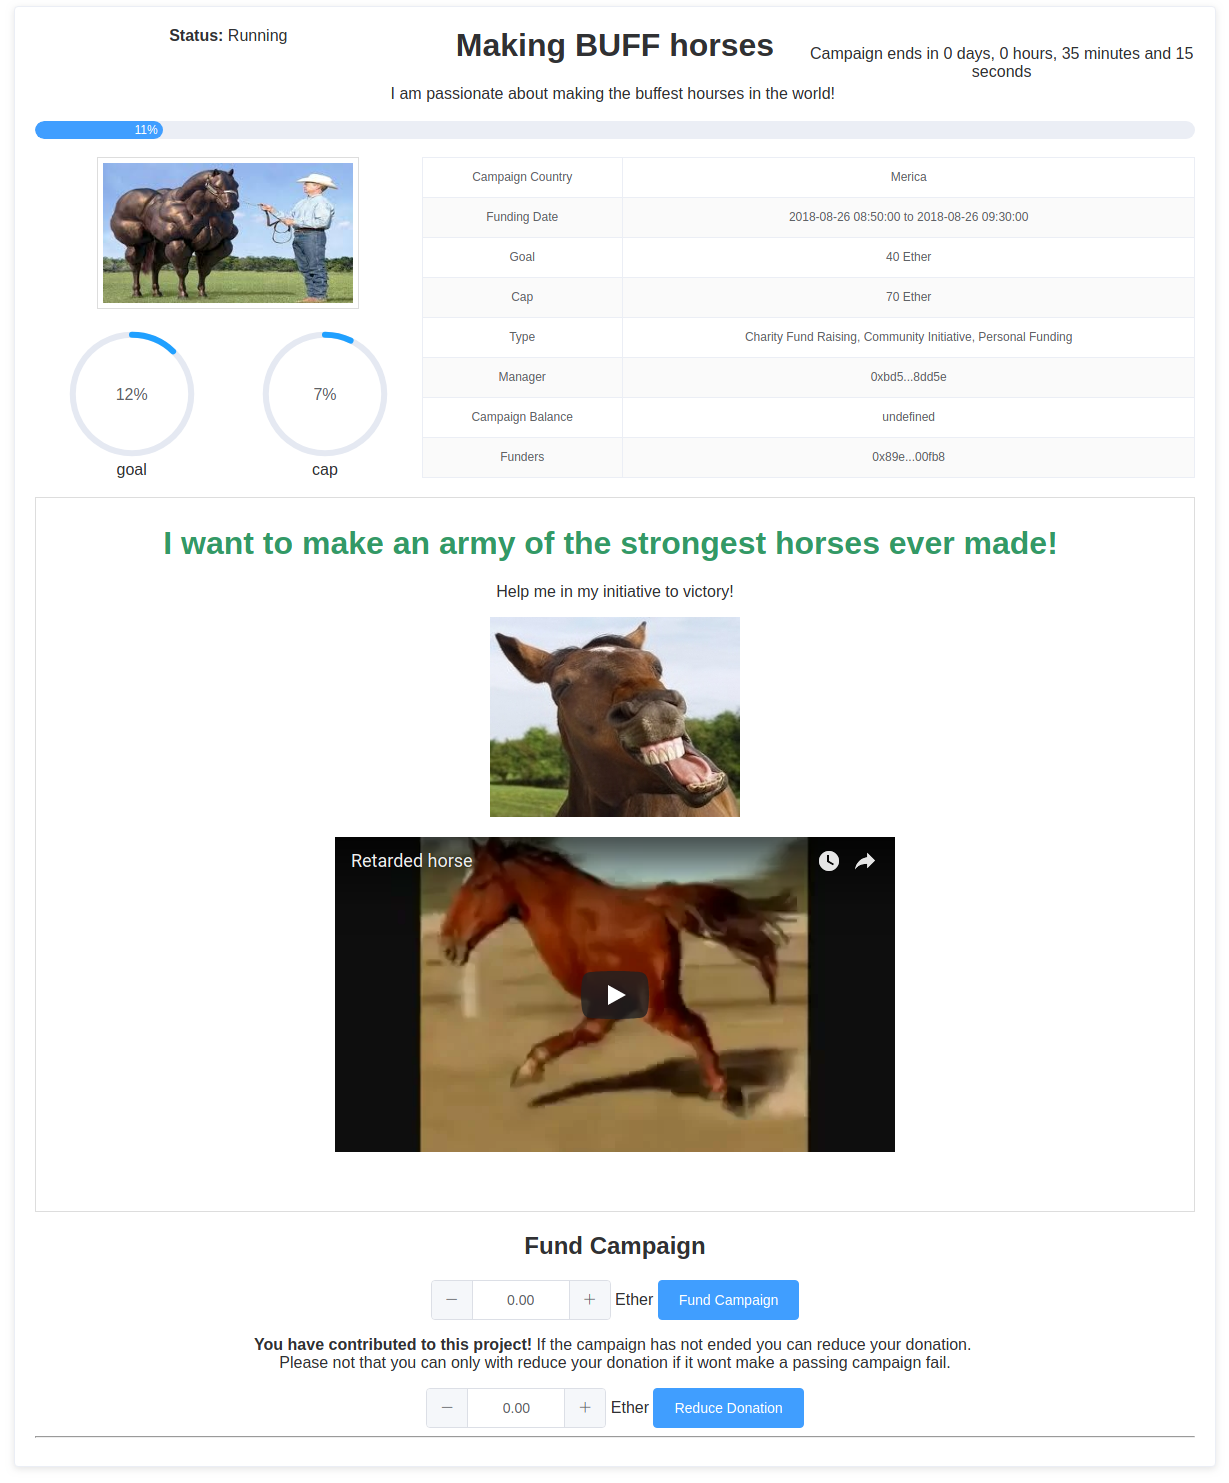
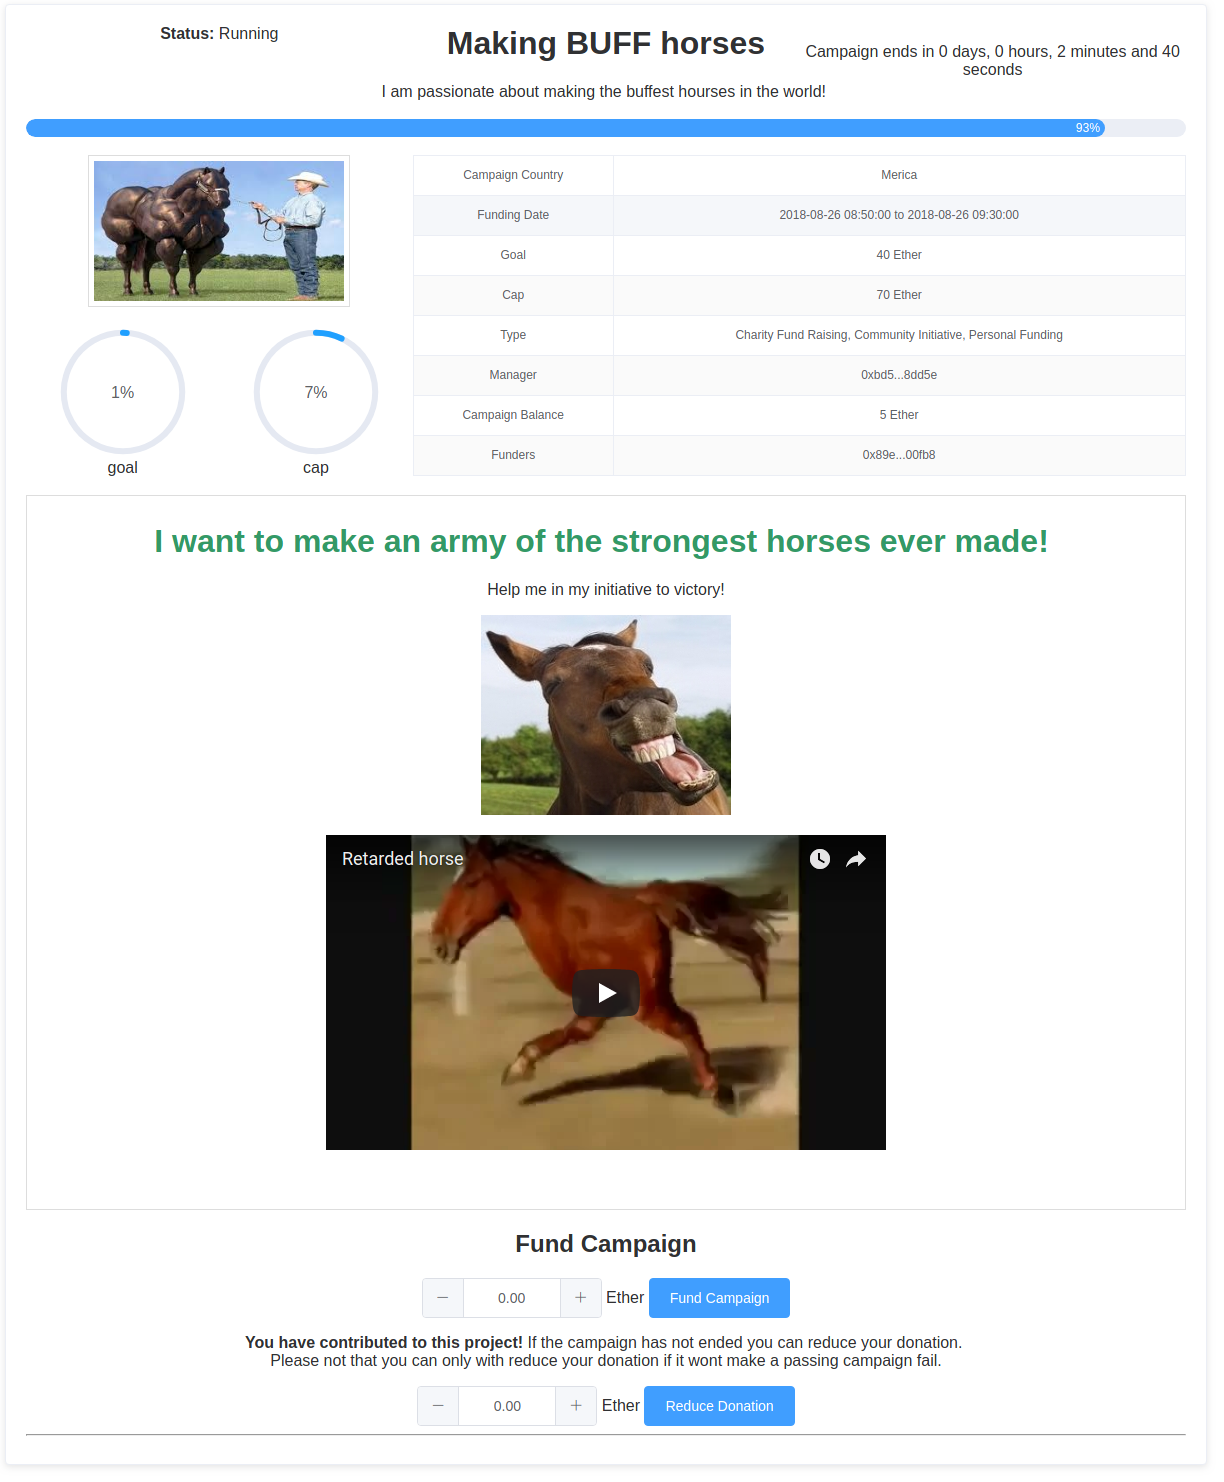
Updated readme

diff --git a/src/components/ViewCampaign.vue b/src/components/ViewCampaign.vue
@@ -165,9 +165,9 @@ export default {
       }
       type = type.substring(0, type.length - 2);
 
-      let balance = this.contractReturnedData[3];
+      let balance = this.contractReturnedData[3]["c"][0]/10000+" Ether";
       if (balance == undefined || balance == 0) {
-        balance = "0";
+        balance = "0 Ether";
       }
 
       let funders = this.contractReturnedData[7];
@@ -209,9 +209,9 @@ export default {
         { propery: "Funders", value: fundersString }
       ];
       this.goalPercentage = parseInt(
-        balance / this.ipfsReturnedData.goalCap[0] * 100 / 1000000000000000000);
+        this.contractReturnedData[3]["c"][0]/10000 / this.ipfsReturnedData.goalCap[0] * 100 / 1000000000000000000);
       this.capPercentage = parseInt(
-        balance / this.ipfsReturnedData.goalCap[1] * 100 / 1000000000000000000);
+        this.contractReturnedData[3]["c"][0]/10000 / this.ipfsReturnedData.goalCap[1] * 100 / 1000000000000000000);
     },
     convertSeconds(seconds) {
       var d, h, m, s;

diff --git a/README.md b/README.md
@@ -2,30 +2,53 @@
 **Decentralized, peer to peer funding platform for creatives, charities and open source projects.**
 
 ### Overview
-Ethstarter enables individuals to create new campaigns and publish them on an open platform. Key logic regarding campaign operation is stored within Ethereum Smart contracts and additional information (such as images, text and embedded content) is stored on IPFS. Any other user can then fund the campaign during the funding period. Ether is locked in the contract until the end of the funding period at which point the campaign manger can withdraw from the campaign, if the campaign was successful. If the campaign does not receive enough donations during the funding period, the donors can withdraw their contributions after the end of the campaign. The whole process occures without the need for a central authority to oversee any aspect of the exchange; The campaigns can be seen as a peer-to-peer exchange between the fund manager and the donors enabling a novel, trustless mechanism for funding projects!
+Ethstarter enables individuals to create new campaigns and publish them on an open platform. Key campaign logic is stored within Ethereum Smart contracts and additional information (such as images, text and embedded content) is stored on IPFS. Any other user can then fund the campaign during the funding period. Ether is locked in the contract until the end of the funding period at which point the campaign manger can withdraw from the campaign, if the campaign was successful. If the campaign does not receive enough donations during the funding period, the donors can withdraw their contributions after the end of the campaign. The whole process occurs without the need for a central authority to oversee any aspect of the exchange; the campaigns can be seen as a peer-to-peer exchange between the fund manager and the donors enabling a novel, trustless mechanism for funding projects!
 
 ### Why
 Current web2.0 funding platforms like Kickstater, Indigogo and others all suffer from the same underlying problems. Theses problems can be broken down into two main sections:
 
-1. **Cost**: The current funding mechanisms take a cut from every project funded on the platform. Kickstarter, for example, takes 4% of all projects funding. Indigogo also takes 4% for sucessfuly funded projects but this cost jumps to 9% if the project is unsuccessful. EthStarter takes no fees from Campaigns.
-2. **Accessability**: Many projects are restricted to particular geographic regions. If you fall outside of these regions, you can't contribute to the projects. Clearly, if the project intends to sell products that require shipping, this needs to be taken into account but there is no reason that someone should not be able to contribute to charity or open source projects from anywhere in the world.
+1. **Cost**: The current funding mechanisms take a cut from every project funded on the platform. Kickstarter, for example, takes 4% of all projects funding. Indigogo also takes 4% for sucessfuly funded projects but this cost jumps to 9% if the project is unsuccessful. EthStarter, on the other hand, takes no fees from Campaigns.
+2. **Accessability**: Many projects are restricted to particular geographic regions. If you fall outside of these regions, you can't contribute to the projects. Clearly, if the project intends to sell products that require shipping, this needs to be taken into account but there is no reason that someone should not be able to contribute to charity or open source projects from anywhere in the world. Additionally, current funding platforms restrict the kind of projects that can be posted on them, resulting in many projects not making the cut. A curation mechanism for quality projects is important but this is out of the scope of this project.
+
 
 ### User Stories
-The workflow and user interaction for Etherstarter is very simple. There are two broad categories of users: Campaign managers and campaign donors. Each users story will be shown with some accompanying campaigns for a hungry cat.
+The workflow and user interaction for Etherstarter is very simple. There are two broad categories of users: Campaign managers and campaign donors. Each users story will be shown with some accompanying sample campaigns.
 
 #### Campaign manager:
 
-1. The user accesses the system through a web3 enabled browser (metamask, Status, Cipher etc.) to create a new campaign. The user fills in all relevant information. They are able to speify: the name of the campaign, where it is occuring, a description, the duration of the funding period, the type of campaign, the goal and cap of the campaign. The user is also able to upload an image, used to represent the project as a whole. The user then have the ability to write as much text as they wish to describe the project. This section enables fully customisable typography, from bold/italic/underline to imbedited images, youtube videos and any other HTML representable content (basically, you can put anything in here.)
-![](img/createNewCampaign.png?raw=true)
+1. The user accesses the system through a web3 enabled browser (metamask, Status, Cipher etc.) to create a new campaign. The user fills in all relevant information. They are able to speify: the name of the campaign, where it is occuring, a description, the duration of the funding period, the type of campaign, the goal and cap of the campaign. The user is also able to upload an image, used to represent the project as a whole. The user then have the ability to write as much text as they wish to describe the project. This section enables fully customisable typography, from bold/italic/underline to imbedited images, Youtube videos and any other HTML representable content (basically, you can put anything in here.)
+   <p align="center">
+  <img src="https://github.com/SoIidarity/EthStarter/blob/master/img/DatePicker.png?raw=true" alt="Date Picker"/>
+  
+  <br>
+  <i>Date Picker</i>
+  
+  <img src="https://github.com/SoIidarity/EthStarter/blob/master/img/CreateCampaignCats.png?raw=true" alt="Date Picker"/>
+  <br>
+  <i>Create New Campaign</i>
+</p>
 
-2. They Click create on the project, publishing it to the Blockchain and IPFS.
-3. The project is now publicly viewable by anyone on the platform and can be funded by anyone. Clearly, a user can only fund the project once the funding period starts.
-![](img/newCampaignNotFunded.png?raw=true)
-1. As the manager, you are given extra controls, such as the ability to withdraw the funds from the campaign. This functionality is restricted until after the end of the campaign period. Additionally, withdraw is only enabled if the campaign was successful.
+1. They Click create on the project, publishing it to the Blockchain and IPFS.
+2. The project is now publicly viewable by anyone on the platform and can be funded by anyone. Clearly, a user can only fund the project once the funding period starts.
+3. As the manager, you are given extra controls, such as the ability to withdraw the funds from the campaign. This functionality is restricted until after the end of the campaign period. Additionally, withdraw is only enabled if the campaign was successful.
 
 #### Campaign Donor
 
-1. Donors to the platform can view all currently listed campaigns. They can then contribute to any project they see fit by clicking the "Fund Campaign" button.
+1. Donors to the platform can view all currently listed campaigns.
+      <p align="center">
+  <img src="https://github.com/SoIidarity/EthStarter/blob/master/img/buffHourse.png?raw=true" alt="Date Picker"/>
+<br>
+  <i>Non-Funded Campaign</i>. Note the embeded youtube video and that the status is "Not Started"
+  <br>
+</p>
+
+1. They can then contribute to any project they see fit by clicking the "Fund Campaign" button.
+  <p align="center">
+  <img src="https://github.com/SoIidarity/EthStarter/blob/master/img/buffHourseFunded.png?raw=true" alt="Date Picker"/>
+  <i>Funded campaign</i>. Note that the goal and cap has progressed and that the time bargraph is at 93%. Also note that as this user has contributed, the have the ability to withdraw an amount from the Campaign. The imbedded youtube video plays directly from Youtube.
+  <br>
+</p>
+
 2. The donor can choose to reduce their donation, if they wish, after the donation period. This can *only* be done if the reduction does not result in a successful campaign becoming unsuccessful.
 3. In the event of an unsuccessful campaign, the donor is able to withdraw their funds.
 
